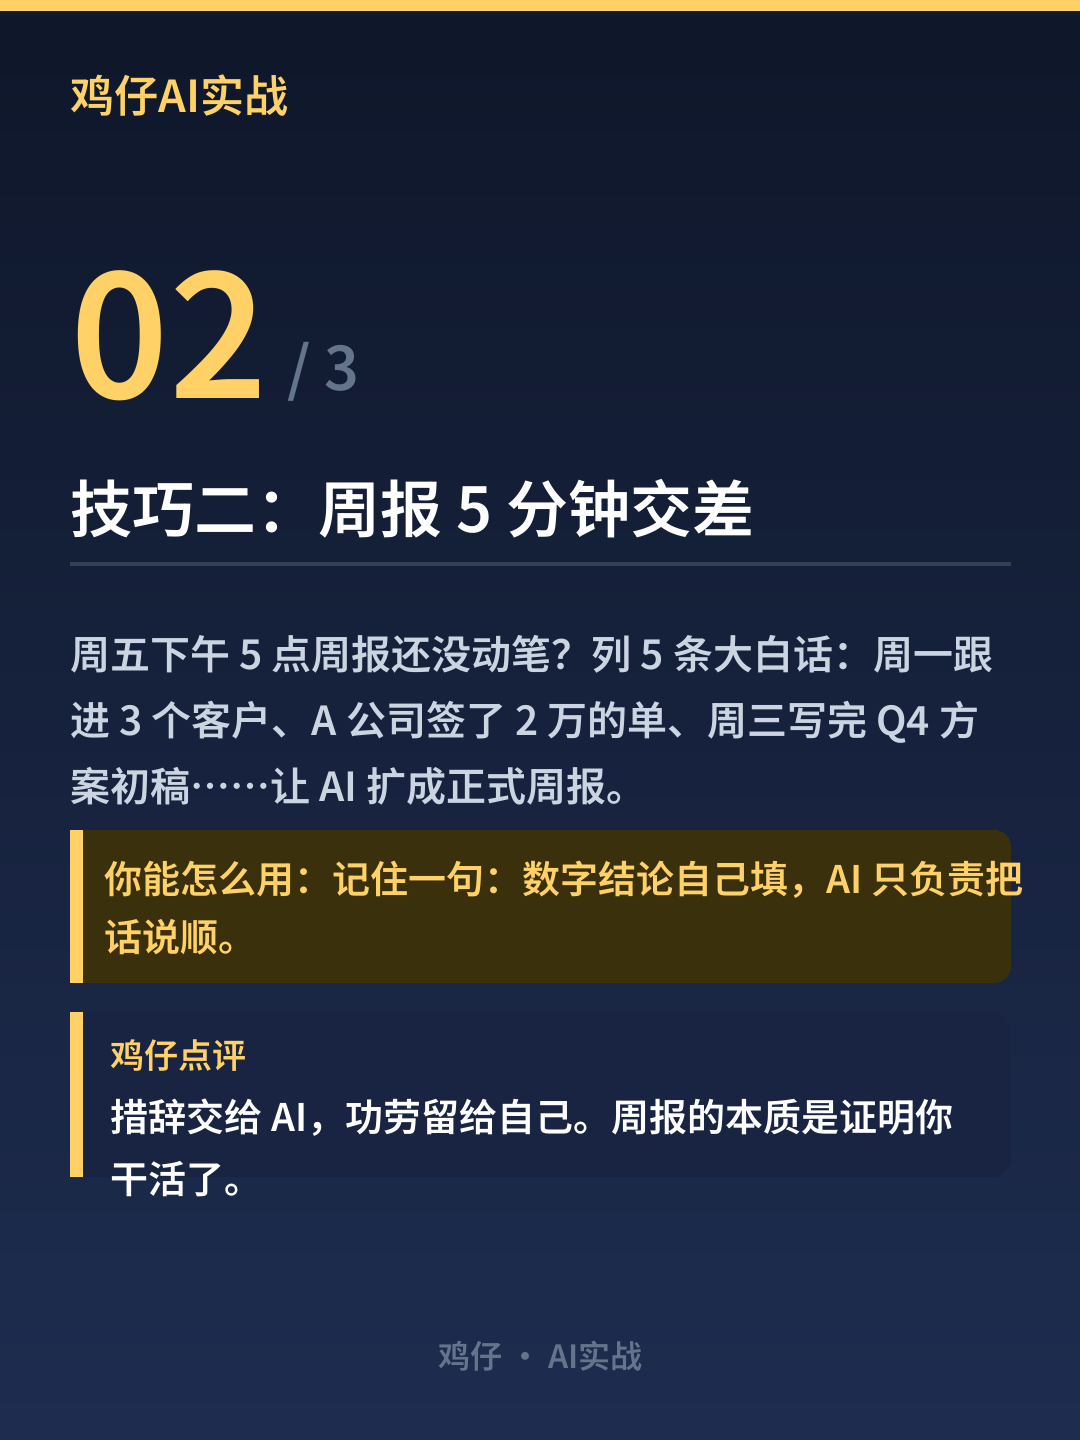
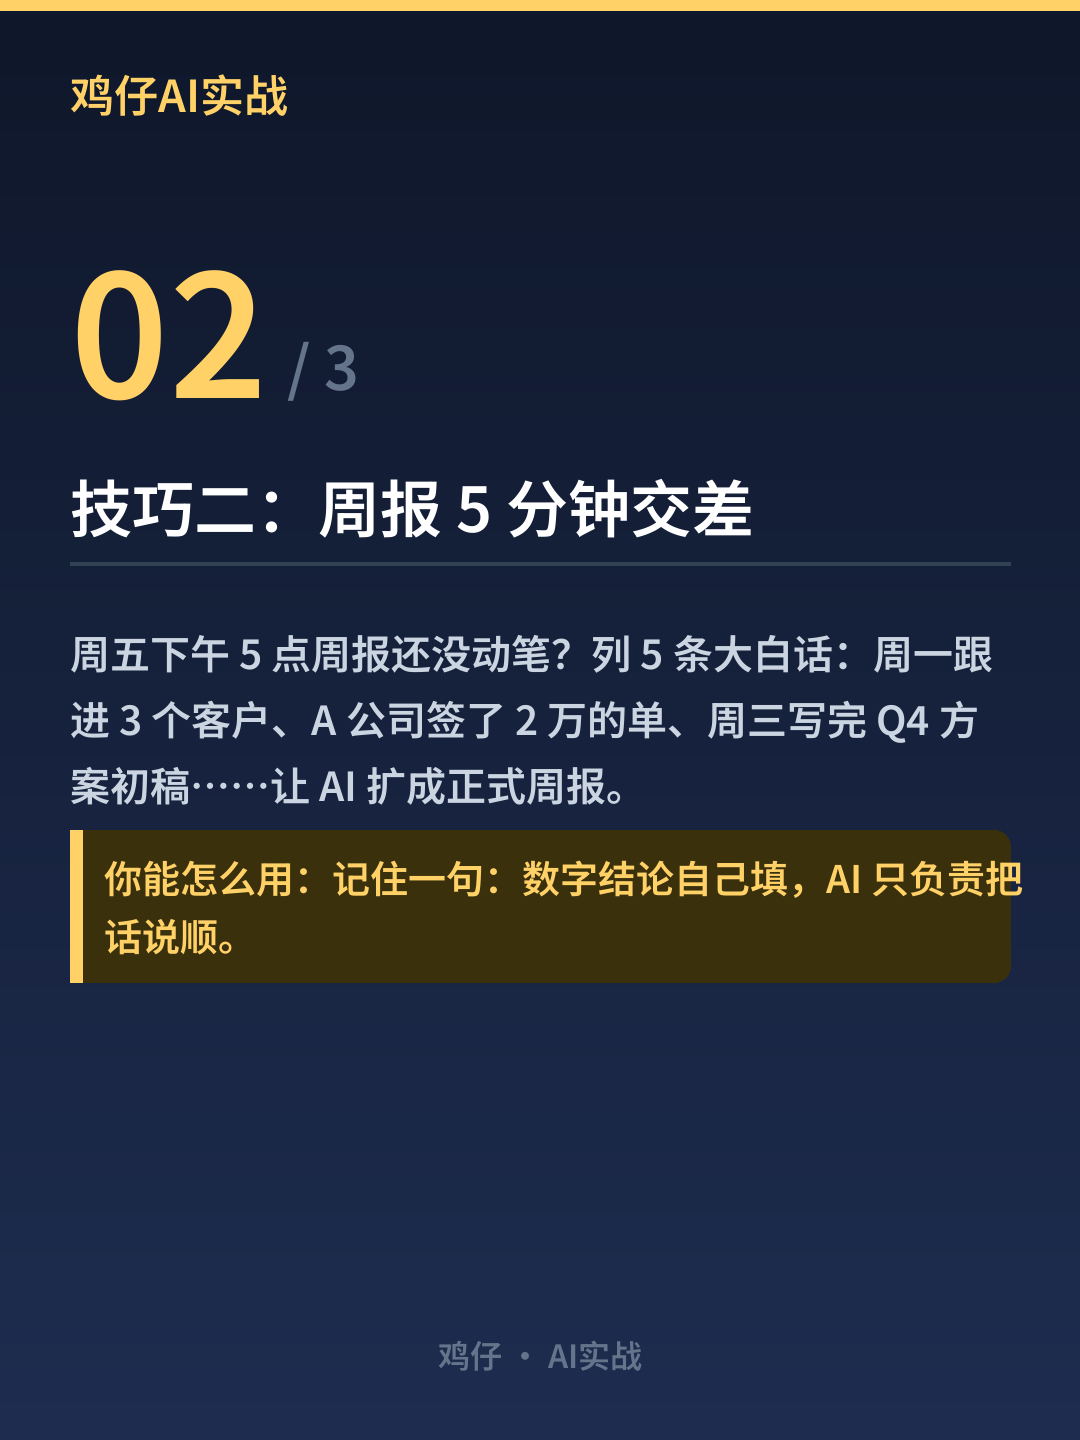
教程去掉硬凑的鸡仔点评，选题库加 GitHub 涨星榜备用来源

Changed region(s): [[0.0611, 0.6875, 0.5194, 0.8438], [0.55, 0.75, 0.8861, 0.8125]]

diff --git a/preview.html b/preview.html
@@ -67,7 +67,6 @@
 这是9月订单明细，A列下单日期、B列商品类目、C列金额、D列是否退货，帮我按类目汇总销售额和退货率，输出一张表。
 30 秒出表。
 ⚠ 避坑：关键数字自己抽查两行，公式它偶尔手滑。
-💬 鸡仔说：洗数据的体力活，就该让 AI 干。
 
 ② 周报 5 分钟交差
 场景：周五下午 5 点，周报还没动笔。
@@ -75,7 +74,6 @@
 周一跟进 3 个客户，A 公司签了 2 万的单；周三写完 Q4 推广方案初稿；周四参加产品培训；周五处理 2 个客诉。
 然后跟 AI 说：扩写成正式周报，语气低调务实。
 ⚠ 避坑：数字、结论自己填，别让它编业绩，写上去的每个数都得是你自己的。
-💬 鸡仔说：措辞交给 AI，功劳留给自己。
 
 ③ 汇报 PPT，10 分钟出大纲
 场景：下周给总监汇报 Q4 推广方案，只有 15 分钟。
@@ -83,7 +81,6 @@
 听众是总监，关心投入产出；讲 15 分钟；想让他记住：Q4 主攻短视频，预算 20 万，目标 200 万 GMV。
 AI 给你一版逻辑大纲，你再往里填自己的案例和数据。
 ⚠ 避坑：大纲是骨架，血肉必须是你的真实业务，套模板的一问就穿帮。
-💬 鸡仔说：AI 搭架子，你填里子，这个分工最稳。
 
 📌 收藏这篇，下周做报表时翻出来对照着用
 这 3 招里，你最想先试哪一个？评论区扣 1，我把上面 3 段提示词原文发你。
@@ -129,7 +126,7 @@ AI 给你一版逻辑大纲，你再往里填自己的案例和数据。
       <div class="topic"><div class="n">19</div><div class="t">AI 协作 3 条红线</div><div class="v">帮所有人避开隐私和泄密坑（公司机密、身份证号、未公开数据）。</div></div>
       <div class="topic"><div class="n">20</div><div class="t">别再问"AI 会不会取代我"了</div><div class="v">帮焦虑的人建立正确预期。</div></div>
     </div>
-    <div class="note">维护规则：每周日花 30 分钟补充 10 个新选题；某类选题连续 3 篇低于平均则删除该类型。优先级：打工人提效 &gt; 学生党 &gt; 搞钱 &gt; 避坑。</div>
+    <div class="note">维护规则：每周日花 30 分钟补充 10 个新选题；某类选题连续 3 篇低于平均则删除该类型。选题不够时，去 GitHub 找昨天涨星最多的项目做"开源项目介绍"。优先级：打工人提效 &gt; 学生党 &gt; 搞钱 &gt; 避坑。</div>
   </div>
 </div>
 </body>
